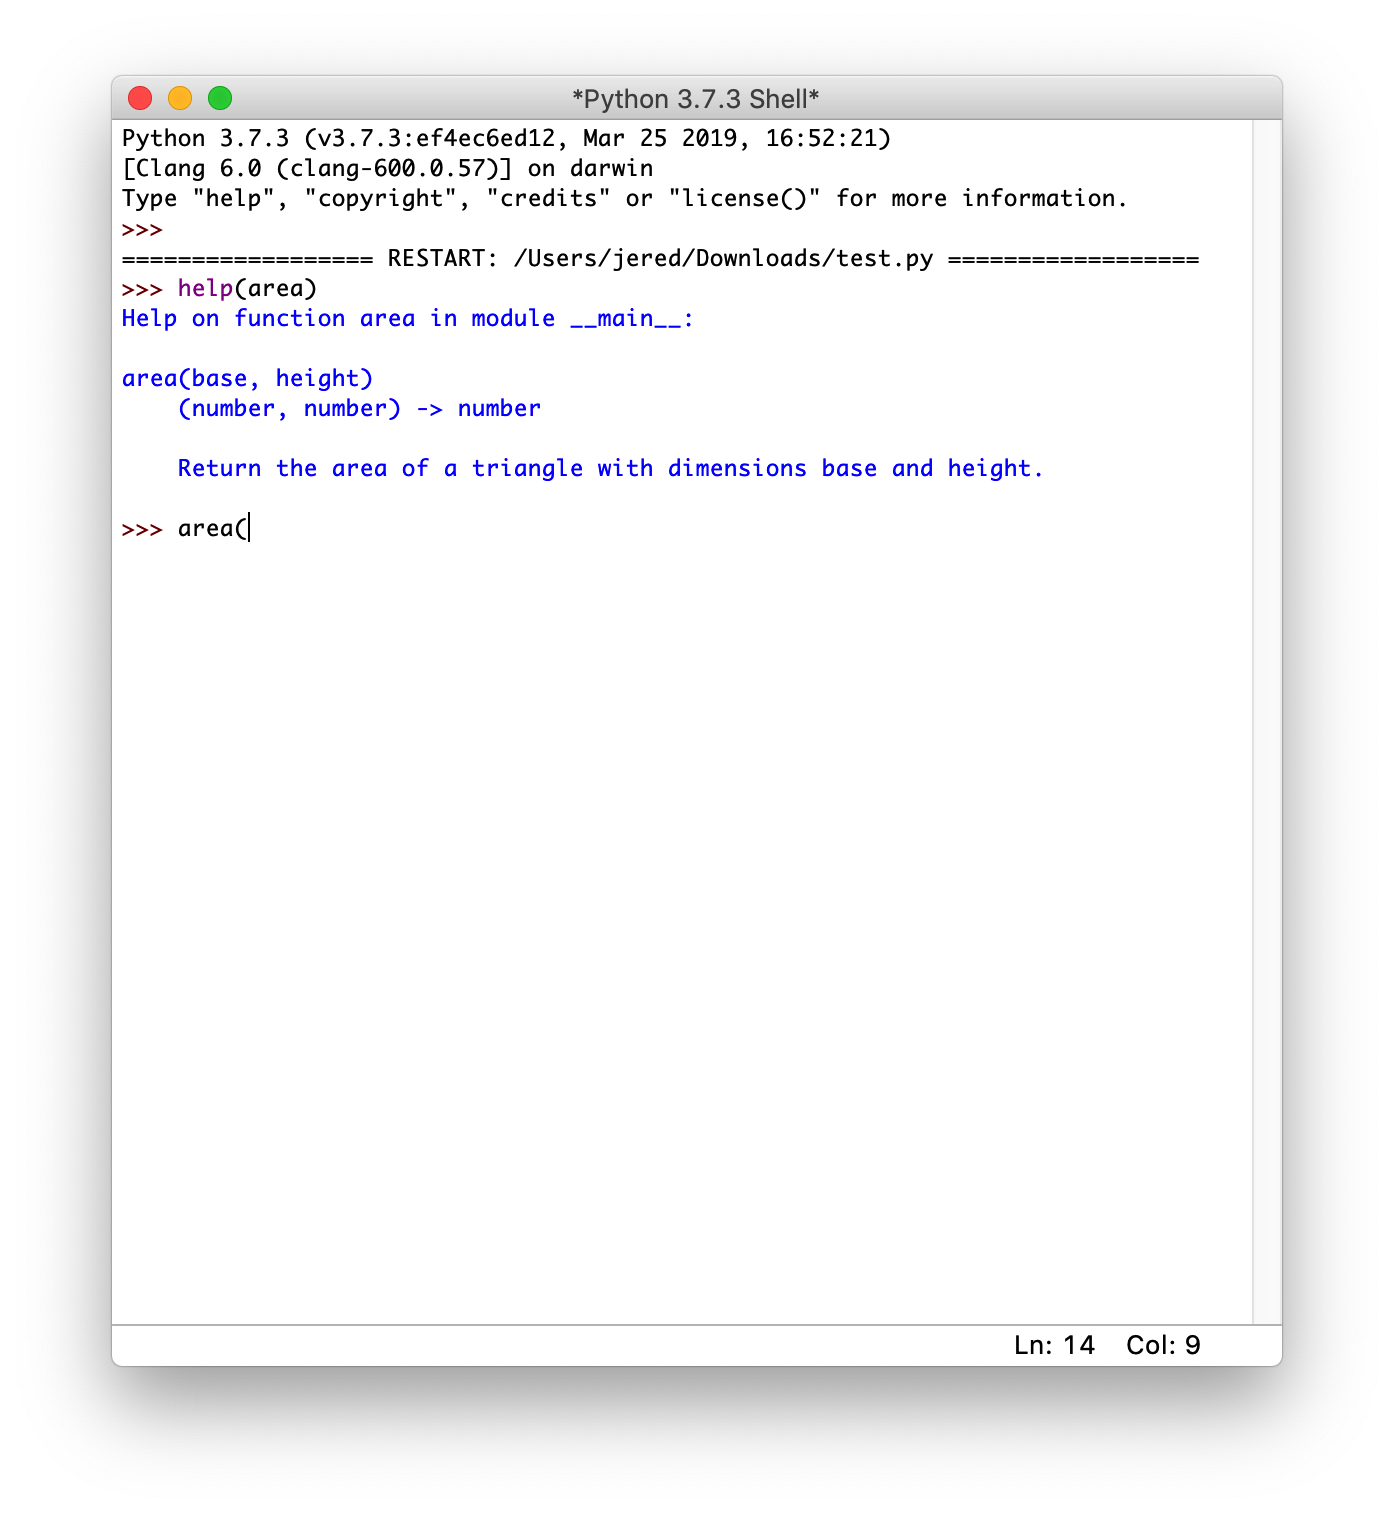
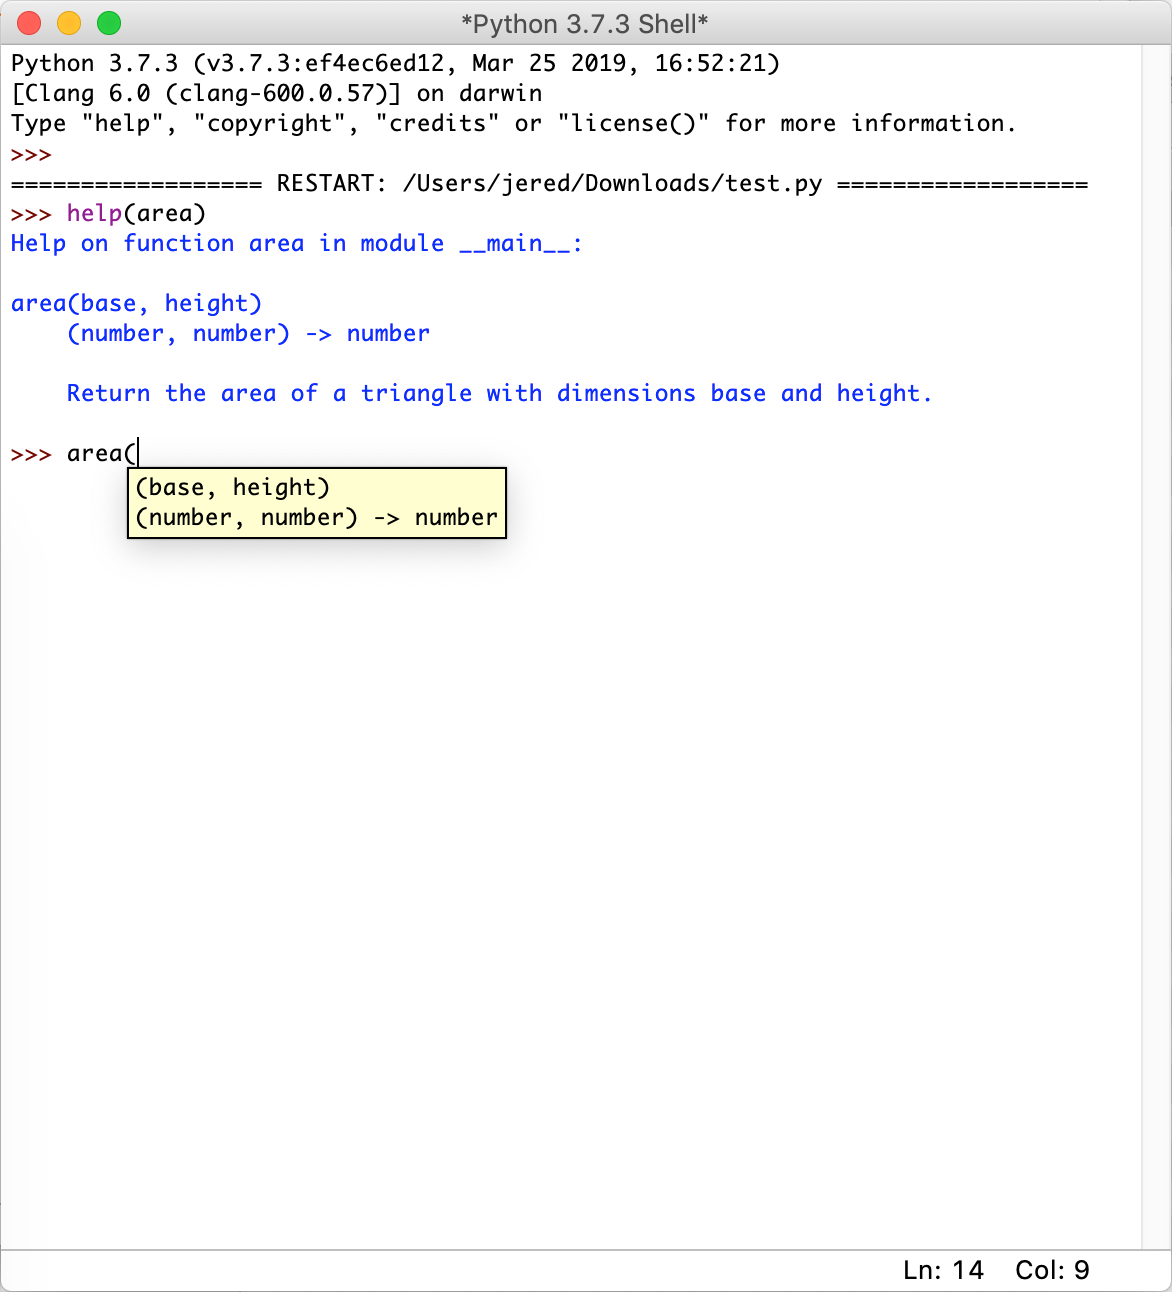
Replaced the visual example with a more clear one.

Changed region(s): [[0.0, 0.0, 1.0, 0.9907], [0.9829, 0.9907, 1.0, 1.0], [0.0, 0.9907, 0.0307, 1.0]]

diff --git a/Week 02/Notes.md b/Week 02/Notes.md
@@ -80,11 +80,13 @@ def area(base, height):
 
 The built-in help function shows the description of a function. The parameters are shown in IDLE when you type the function name and first parenthesis.
 
-!["Example of function help."](function_description.png "Example of function help.")
+!["Example of function help."](function_description.png "Example of function help")
 
 # Part 2: Designing Functions
 
 ## Function Design Recipe
+
+...
 
 ## Function Reuse
 
